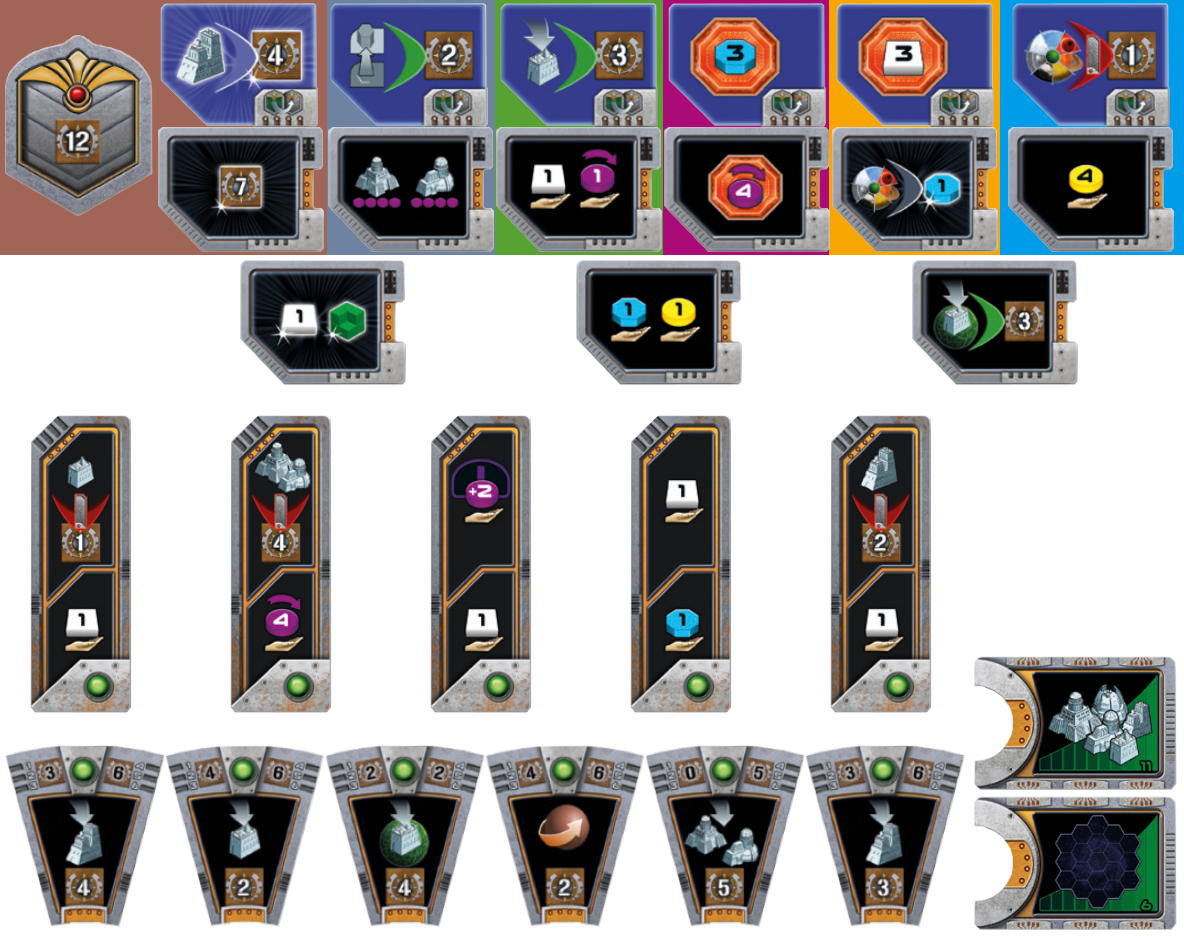
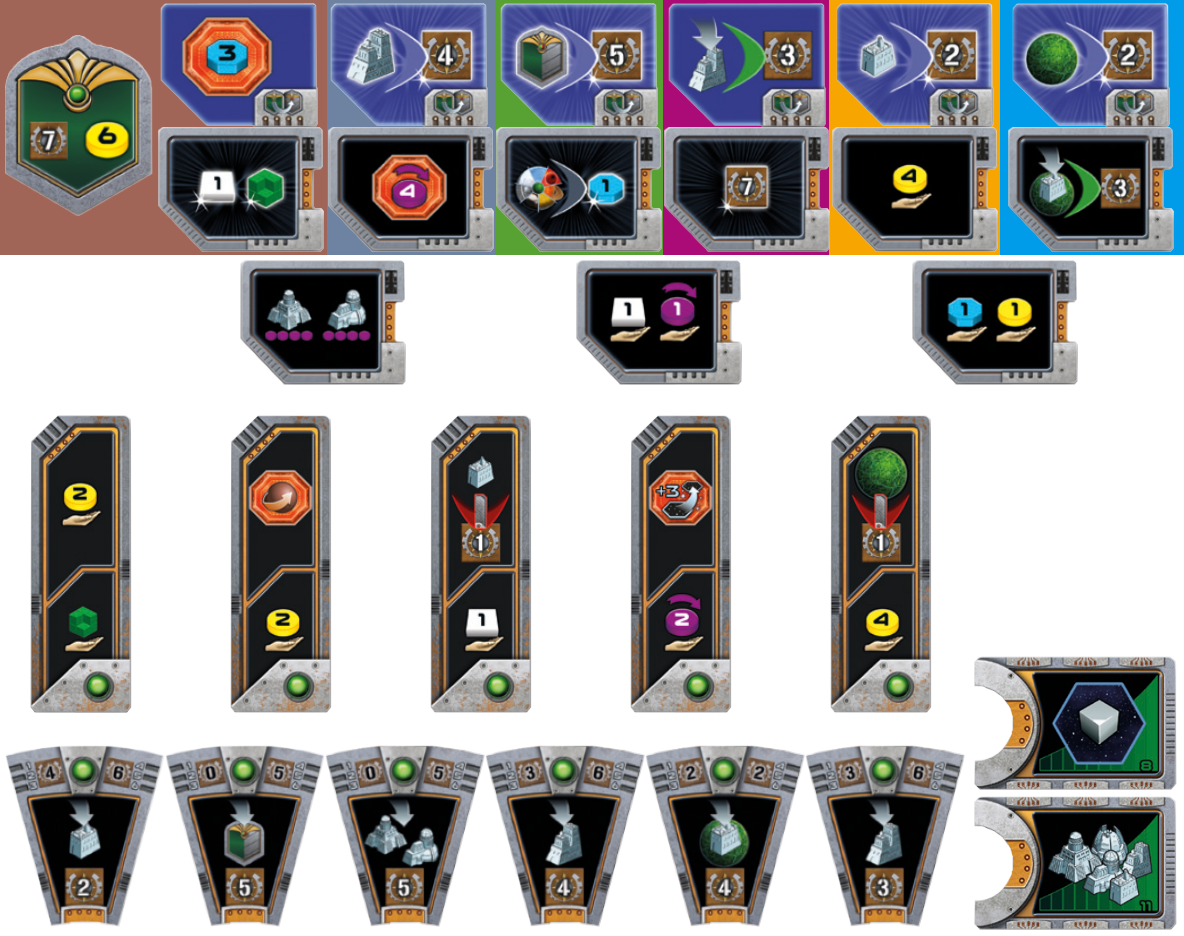
started work on automa pq automation

diff --git a/automa.py b/automa.py
@@ -436,33 +436,21 @@ class Automa:
                 action = actions["upgrade"]
                 continue
             else:
-                return
+                if not passed:
+                    # Get Victory Points if the Automa hasn't passed.
+                    vp = self.support_card.vp
+                    self.vp += vp
 
-    def points(self, action):
-        # Make action names more user friendly.
-        if action == "pq":
-            action = "Power/Q.I.C."
-        else:
-            action = action.capitalize()
+                    point_points = "Points"
+                    if vp == 1:
+                        point_points = "Point"
 
-        print(
-            f"\nHow many points does the Automa score for doing the "
-            f"{action} action? Please type the number of points."
-        )
-
-        while True:
-            points = input("--> ")
-
-            try:
-                points = int(points)
-            except ValueError:
-                print("! Please only type a number.")
-            else:
-                self.vp += points
-                point_points = "Points"
-                if points == 1:
-                    point_points = "Point"
-                print(f"+ Automa has gained {points} Victory {point_points}.")
+                    if vp != 0:
+                        print(
+                            f"+ Automa has gained {vp}Victory {point_points}."
+                        )
+                    else:
+                        print("! The Automa didn't gain any Victory Points.")
                 return
 
     def mine(self, gp, faction_action=False):
@@ -1056,62 +1044,12 @@ class Automa:
         if not any(research_board.pq_actions.values()):
             print(
                 "\n! There are no available Power/Q.I.C. Actions left. "
-                "The Automa does nothing this turn. the Automa DOES score "
-                "points though!"
+                "The Automa does nothing this turn."
             )
             return
 
-        print(
-            "\nWhich Power/Q.I.C. Action does the Automa take?"
-        )
-
-        if faction_action:
-            prompt = (
-                "Please type the number of the Numbered Selection (1-5).\n"
-                "--> "
-            )
-        else:
-            prompt = (
-                "Please type the number of the Numbered Selection (1-5).\n"
-                "Type 0 if the Automa does a different Action.\n--> "
-            )
-        while True:
-            number = input(prompt)
-
-            if number == "0":
-                if faction_action:
-                    continue
-                else:
-                    raise e.BackToActionSelection
-            elif not number in [str(num) for num in range(1, 6)]:
-                continue
-
-            number_selection = False
-            while True:
-                print(
-                    "Please type the number of the corresponding direction "
-                    "the arrow of the Numbered Selection is pointing to."
-                )
-                for i, direct in enumerate(["<--", "-->"], start=1):
-                    print(f"{i}. {direct}")
-                print(f"{i + 1}. Go back to number selection.")
-
-                direction = input("--> ")
-
-                if direction == f"{i + 1}":
-                    number_selection = True
-                    break
-                elif not direction in [str(n + 1) for n in range(i)]:
-                    print(
-                        "! Please type the number of the corresponding "
-                        "direction the arrow is pointing to."
-                    )
-                    continue
-                break
-            if number_selection:
-                continue
-            else:
-                break
+        direction = self.support_card.support[3][:-1]
+        amount = int(self.support_card.support[3][-1])
 
         context = [
             "Gain 3 Knowledge for 7 Power",
@@ -1126,7 +1064,6 @@ class Automa:
             "Gain 3 VP and 1 VP for every different planet type for 2 " \
             "Q.I.C."
         ]
-
         number = int(number)
         if direction == "1":
             i = 10
@@ -1149,8 +1086,109 @@ class Automa:
                     i = 1
         else:
             research_board.pq_actions[i] = False
-
         print(f"The Automa has chosen the {context[i - 1]} Action.")
+
+    # Old pq action.
+    # def pq(self, research_board, faction_action=False):
+    #     # Check if there are any Power/Q.I.C. actions still open
+    #     if not any(research_board.pq_actions.values()):
+    #         print(
+    #             "\n! There are no available Power/Q.I.C. Actions left. "
+    #             "The Automa does nothing this turn. the Automa DOES score "
+    #             "points though!"
+    #         )
+    #         return
+
+    #     print(
+    #         "\nWhich Power/Q.I.C. Action does the Automa take?"
+    #     )
+
+    #     if faction_action:
+    #         prompt = (
+    #             "Please type the number of the Numbered Selection (1-5).\n"
+    #             "--> "
+    #         )
+    #     else:
+    #         prompt = (
+    #             "Please type the number of the Numbered Selection (1-5).\n"
+    #             "Type 0 if the Automa does a different Action.\n--> "
+    #         )
+    #     while True:
+    #         number = input(prompt)
+
+    #         if number == "0":
+    #             if faction_action:
+    #                 continue
+    #             else:
+    #                 raise e.BackToActionSelection
+    #         elif not number in [str(num) for num in range(1, 6)]:
+    #             continue
+
+    #         number_selection = False
+    #         while True:
+    #             print(
+    #                 "Please type the number of the corresponding direction "
+    #                 "the arrow of the Numbered Selection is pointing to."
+    #             )
+    #             for i, direct in enumerate(["<--", "-->"], start=1):
+    #                 print(f"{i}. {direct}")
+    #             print(f"{i + 1}. Go back to number selection.")
+
+    #             direction = input("--> ")
+
+    #             if direction == f"{i + 1}":
+    #                 number_selection = True
+    #                 break
+    #             elif not direction in [str(n + 1) for n in range(i)]:
+    #                 print(
+    #                     "! Please type the number of the corresponding "
+    #                     "direction the arrow is pointing to."
+    #                 )
+    #                 continue
+    #             break
+    #         if number_selection:
+    #             continue
+    #         else:
+    #             break
+
+    #     context = [
+    #         "Gain 3 Knowledge for 7 Power",
+    #         "Gain 2 Terraforming steps for 5 Power",
+    #         "Gain 2 Ore for 4 Power",
+    #         "Gain 7 Credits for 4 Power",
+    #         "Gain 2 Knowledge for 4 Power",
+    #         "Gain 1 Terraforming step for 3 Power",
+    #         "Gain 2 Power Tokens for 3 Power",
+    #         "Gain a technology tile for 4 Q.I.C",
+    #         "Score one of your Federation Tokens again for 3 Q.I.C",
+    #         "Gain 3 VP and 1 VP for every different planet type for 2 " \
+    #         "Q.I.C."
+    #     ]
+
+    #     number = int(number)
+    #     if direction == "1":
+    #         i = 10
+    #     else:
+    #         i = 1
+    #     # Keep looking for available actions until the amount of actions
+    #     # checked is equal to the Numbered Selection number.
+    #     while number:
+    #         if research_board.pq_actions[i]:
+    #             number -= 1
+    #             if number == 0:
+    #                 continue
+    #         if direction == "1":
+    #             i -= 1
+    #             if i == 0:
+    #                 i = 10
+    #         else:
+    #             i += 1
+    #             if i == 11:
+    #                 i = 1
+    #     else:
+    #         research_board.pq_actions[i] = False
+
+    #     print(f"The Automa has chosen the {context[i - 1]} Action.")
 
     def special(self):
         # Automa can't do a Special action.
